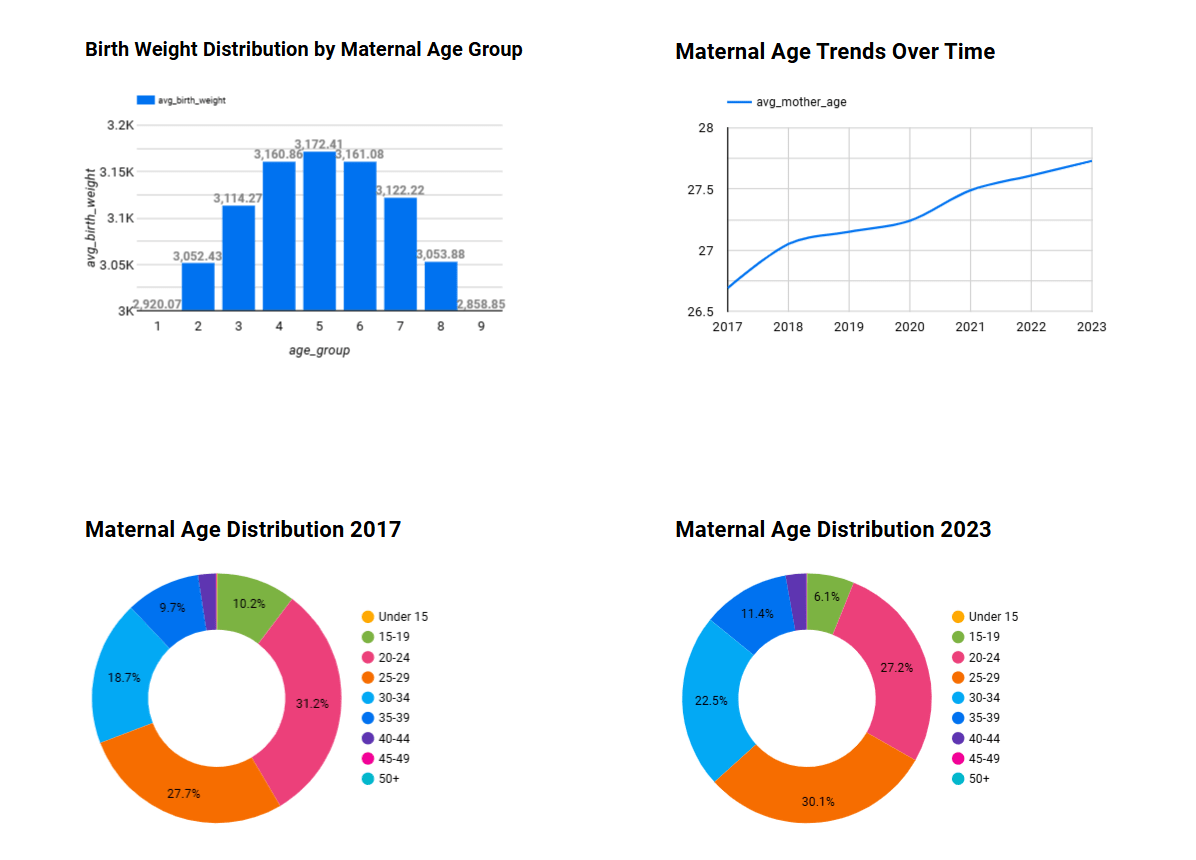
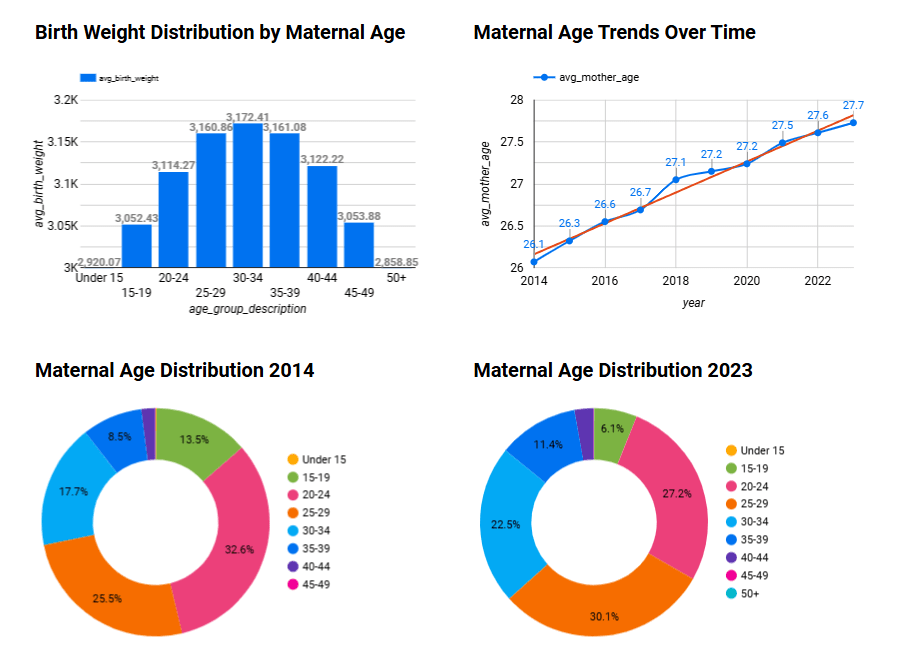
Update: Project Statment and Dashboard

diff --git a/README.md b/README.md
@@ -1,29 +1,18 @@
 # **Maternal Age and Birth Weight Trends Analysis**  
-*A Data Engineering Project*  
+*A DEZoomcamp Data Engineering Capstone Project*  
 
 ## **Overview**  
-Maternal age is a known factor in neonatal health outcomes. Birth weight, a key indicator of neonatal health, may vary depending on the mother’s age. This project analyzes CDC natality data (2017–2023) to:  
+Maternal age is a known factor in neonatal health outcomes. Birth weight, a key indicator of neonatal health, may vary depending on the maternal age. This project analyzes CDC natality data from 2014 to 2023 to:  
 - Track shifts in maternal age distribution.
 - Correlate maternal age with birth weight trends.
 - Provide scalable data pipelines for public health research.
 
 ---
 
-## **Project Deliverables**  
-### **Data Engineering Criteria Met**  
-1. **Data Ingestion**  
-   - Collected CDC natality data (2017–2023) from public sources.  
-   - Automated downloads using Python (`requests`/`wget`) or cloud tools (e.g., AWS S3).  
-2. **Data Processing**  
-   - Cleaned and standardized fields (e.g., maternal age groups, birth weight categories).  
-   - Handled missing data (e.g., imputation for outliers in birth weight).  
-3. **Storage**  
-   - Stored processed data in a structured format (BigQuery and GCS) for analysis.
-4. **Analysis & Visualization**  
-   - Generated aggregated statistics (e.g., average birth weight by age group).  
-   - Built dashboards (Tableau/Power BI/Plotly) for trend visualization.  
-5. **Automation**  
-   - Scheduled pipelines (Airflow/Luigi) for periodic data updates.  
+## **Project Architecture**
+The project follows a cloud-native ETL pipeline, integrating automated ingestion, processing, and storage for scalable analysis.
+[![Pipeline Architecture](docs/architecture.png)](docs/README.md)  
+*Click to view technical documentation*  
 
 ---
 
@@ -41,23 +30,19 @@ For setup and reproducibility instructions, see the [project documentation](docs
 ## **Why It Matters**  
 - **Healthcare**: Identifies high-risk age groups for targeted interventions.  
 - **Policy**: Supports evidence-based maternal health programs.  
-- **Engineering Impact**: Demonstrates scalable pipelines for public health data.  
+- **Engineering Impact**: Build a cloud-native, automated data pipeline for efficient public health data processing.
+
+
 
 ---
 
 ## **Future Work**  
-1. Expand data pipeline to include real-time CDC API feeds.  
-2. Deploy cloud-based ETL (e.g., AWS Glue, Databricks).  
-3. Add predictive modeling (e.g., low birth weight risk by age).  
-
+- **Expand Dataset**: Incorporate full CDC dataset for deeper analysis.
+- **Enhance Automation**: Add service account auto-creation for deployments.
+- **Cloud Deployment**: Deploy Kestra on cloud VMs to eliminate local environment dependency.
+- **Batch Processing**: Implement Spark for large-scale data processing.
+- **Improve DevOps**: Add testing, Makefile support, and a CI/CD pipeline.
 ---
 
 ### **Data Sources**  
-- [CDC Natality Data](https://www.cdc.gov/nchs/data_access/vitalstatsonline.htm)  
-
----
-
-### **Key Features for Data Engineers**  
-- **Modular Code**: Separates ingestion, processing, and analysis.  
-- **Documentation**: Clear setup instructions and dependencies.  
-- **Scalability**: Designed for larger datasets (e.g., full CDC NVSS database).  
+- [CDC Natality Data](https://data.nber.org/nvss/natality/)  

diff --git a/docs/README.md b/docs/README.md
@@ -1,0 +1,23 @@
+
+### **Key Features for Data Engineers**  
+- **Modular Code**: Separates ingestion, processing, and analysis.  
+- **Documentation**: Clear setup instructions and dependencies.  
+- **Scalability**: Designed for larger datasets (e.g., full CDC NVSS database).  
+
+---
+
+## **Project Deliverables**  
+### **Data Engineering Criteria Met**  
+1. **Data Ingestion**  
+   - Collected CDC natality data from public sources.  
+   - Automated downloads using Python (`requests`/`wget`) or cloud tools (e.g., AWS S3).  
+2. **Data Processing**  
+   - Cleaned and standardized fields (e.g., maternal age groups, birth weight categories).  
+   - Handled missing data (e.g., imputation for outliers in birth weight).  
+3. **Storage**  
+   - Stored processed data in a structured format (BigQuery and GCS) for analysis.
+4. **Analysis & Visualization**  
+   - Generated aggregated statistics (e.g., average birth weight by age group).  
+   - Built dashboards (Tableau/Power BI/Plotly) for trend visualization.  
+5. **Automation**  
+   - Scheduled pipelines (Airflow/Luigi) for periodic data updates.  
